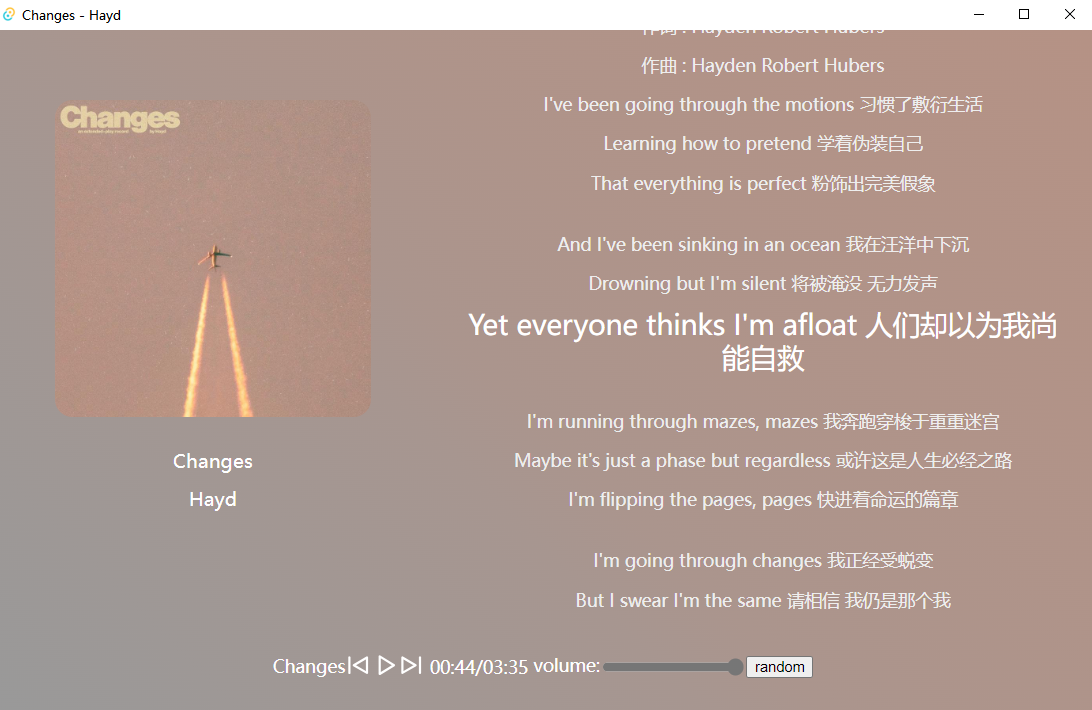
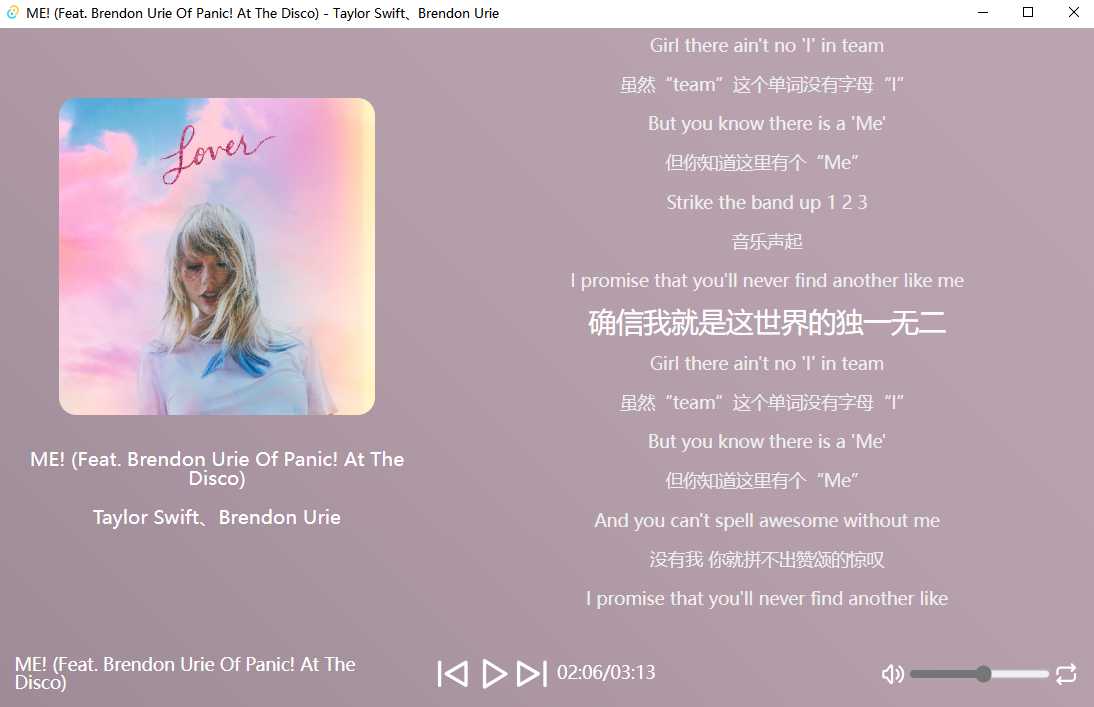
美化播放器外观+v0.6.0

diff --git a/src/Player.jsx b/src/Player.jsx
@@ -1,7 +1,7 @@
 import { useEffect, useRef, useState } from 'react'
 
 import { convertFileSrc } from '@tauri-apps/api/tauri'
-import { appWindow } from '@tauri-apps/api/window'
+import { appWindow,LogicalPosition,LogicalSize,PhysicalPosition,WebviewWindow } from '@tauri-apps/api/window'
 
 import * as dayjs from "dayjs"
 import d from "dayjs/plugin/duration"
@@ -11,10 +11,32 @@ import {
     IconPlayerPause,
     IconPlayerPlay,
     IconPlayerSkipBack,
-    IconPlayerSkipForward
+    IconPlayerSkipForward,
+    IconVolume,
+    IconVolume3,
+    IconRepeat,
+    IconRepeatOnce,
+    IconRepeatOff,
+    IconArrowsShuffle,
 } from '@tabler/icons-react'
 //import { unregister,register } from '@tauri-apps/api/globalShortcut'
 import { replacer } from './utils/storageHelper'
+
+// const w=new WebviewWindow("lyrics",{
+//     url:'/lyrics',
+//     //transparent: true,
+    
+//     x:960,
+//     y:540,
+// })
+// w.setSize(new LogicalSize(500,500))
+
+//w.setDecorations(false)
+//w.setAlwaysOnTop(true)
+
+
+//w.show()
+//w.hide()
 dayjs.extend(d)
 const chance = new Chance();
 const toFormattedDuration = (p) => {
@@ -26,7 +48,8 @@ const toFormattedDuration = (p) => {
     }).format("mm:ss")
     return result
 }
-const DEFAULT_TITLE = "The Echo of Undefined"
+const DEFAULT_TITLE = "The Echo of Echoes"
+const ICON_SIZE=36
 //unregister("space")
 
 export default function Player({ nowPlay, path, fn, fn2, list, setNowPlay, play, setPlay, fullscreen }) {
@@ -73,9 +96,10 @@ export default function Player({ nowPlay, path, fn, fn2, list, setNowPlay, play,
 
     const [currentTime, setCurrentTime] = useState(0);
     const [duration, setDuration] = useState(0);
-    const [mode, setMode] = useState(modes[1])
+    const [mode, setMode] = useState(modes[0])
     const [played, setPlayed] = useState([])
     const [isPlaying, setIsPlaying] = useState(false);
+    const [volume, setVolume] = useState(Number(localStorage.getItem("volume")));
     //const [loop,setLoop]=useState(mode==="loop");
 
     useEffect(() => {
@@ -128,40 +152,44 @@ export default function Player({ nowPlay, path, fn, fn2, list, setNowPlay, play,
                 <p onClick={() => fn(!fullscreen)}>{nowPlay.title ?? DEFAULT_TITLE}</p>
             </div>
 
-            <div className='player-controls'>
+            <div className='player-controls' style={{textAlign:"center"}}>
                 <IconPlayerSkipBack onClick={() => {
                 setNowPlay(list[(nowPlay.get("index") - 1) % list.length])
                 if (!play) setPlay(true)
                 //player.current.play()
-                }} />
+                }} size={ICON_SIZE}/>
                 <span onClick={() => {
                     if (isPlaying) player.current.pause();
                     else player.current.play();
                     setIsPlaying(!isPlaying)
-                }}>{isPlaying ? <IconPlayerPause /> : <IconPlayerPlay />}</span>
+                }}>{isPlaying ? <IconPlayerPause size={ICON_SIZE} /> : <IconPlayerPlay size={ICON_SIZE} />}</span>
                 <IconPlayerSkipForward onClick={() => {
                     //setNowPlay(list[(nowPlay.get("index") + 1) % list.length])
                     if (!play) setPlay(true)
                     next()
 
                     //player.current.play()
-                }} />
-                <span style={{verticalAlign:"text-top"}}>
+                }} size={ICON_SIZE}/>
+                <span style={{verticalAlign:"auto"}}>
                 &nbsp;
                 <span>{currentTime}</span>/
                 <span>{duration}</span>
                     &nbsp;</span>
             </div>
-            <div className="player-volume">
-            volume:<input type="range" min="0" max="1" step="0.01" defaultValue={Number(localStorage.getItem("volume"))} onChange={(e) => {
+            <div className="player-volume" style={{textAlign:"right"}}>
+            {volume==0?<IconVolume3></IconVolume3>:<IconVolume></IconVolume>}<input type="range" min="0" max="1" step="0.01" defaultValue={volume} onChange={(e) => {
                 player.current.volume = e.target.value;
+                setVolume(e.target.value)
                 localStorage.setItem('volume', e.target.value);
             }} style={{ verticalAlign: "middle" }}></input>
-            <button onClick={(e) => {
+            <span onClick={(e) => {
                 let newMode = modes[(modes.indexOf(mode) + 1) % modes.length];
                 setMode(newMode)
                 console.log('new mode', newMode)
-            }}>{mode}</button>
+            }}>{{loop:<IconRepeatOnce/>,
+            list:<IconRepeat />,
+            single:<IconRepeatOff/>,
+            random:<IconArrowsShuffle/>}[mode]}</span>
             </div>
         </div>
     </div>)

diff --git a/src/App.jsx b/src/App.jsx
@@ -1,7 +1,7 @@
 import { useCallback, useEffect, useState, useRef } from "react";
 
 import { convertFileSrc, invoke } from "@tauri-apps/api/tauri";
-import { open } from "@tauri-apps/api/dialog"
+
 import { appWindow, LogicalSize, PhysicalSize } from '@tauri-apps/api/window';
 
 import { Route, Switch, Link } from "wouter";
@@ -66,9 +66,12 @@ function App() {
     return <div className={"lrc " + (active ? "active" : "")}>{content/*.match(/[\w\s"'?!.(),:\-]+/)*/}</div>
     //fake "pure English" mode
   })
-
+  const albumList = [...new Set(
+    JSON.parse(localStorage.getItem('musicList') ?? '[]')
+      .map((item) => item.album)
+  )]
   useHotkeys("F5", e => {
-    if(!isDev)e.preventDefault()
+    if (!isDev) e.preventDefault()
   })
   useEffect(() => {
     if (path && nowPlay.file_name) {
@@ -124,7 +127,7 @@ function App() {
       <div className="column">
         <Link className="icon" href="/user_data"><IconUserSquareRounded size={ICON_SIZE + 12} color="#5a5a5a"></IconUserSquareRounded></Link>
         <Link className="icon albums" href="/albums"><IconVinyl size={ICON_SIZE} color="#5a5a5a"></IconVinyl></Link>
-        <Link className="icon artists" href="/artists"><IconUsers size={ICON_SIZE} color="#5a5a5a"></IconUsers></Link>
+        {/*<Link className="icon artists" href="/artists"><IconUsers size={ICON_SIZE} color="#5a5a5a"></IconUsers></Link>*/}
         <Link className="icon songs" href="/"><IconMusic size={ICON_SIZE} color="#5a5a5a"></IconMusic></Link>
         <Link className="icon settings" href="/settings"><IconSettings size={ICON_SIZE} color="#5a5a5a"></IconSettings></Link>
       </div>
@@ -140,8 +143,8 @@ function App() {
           </Route>
           <Route path="/settings"><Setting /></Route>
           <Route path="/artists"><Artists /></Route>
-          <Route path="/albums"><Albums /></Route>
-          <Route path="/user_data"><UserData lengthOfSongs={list?.length ?? 0} /></Route>
+          <Route path="/albums"><Albums list={albumList} /></Route>
+          <Route path="/user_data"><UserData lengthOfSongs={list?.length ?? 0} lengthOfAlbums={albumList.length} /></Route>
         </Switch>
       </div>
       <div className="footer">
@@ -179,7 +182,13 @@ function App() {
               width: "min(80%,18rem)",
               borderRadius: "1rem",
             }} crossOrigin="anonymous" ref={coverImage} />
-            <div style={{ flex: 1, color: "var(--lrc-active-color)", paddingBlockStart: "0.8rem", fontSize: "1.1rem" }}>
+            <div style={{
+              flex: 1,
+              color: "var(--lrc-active-color)",
+              paddingBlockStart: "0.8rem",
+              fontSize: "1.1rem",
+              marginInline: "1rem"
+            }}>
               <p>{nowPlay.title}</p>
               <p>{nowPlay.artist}</p>
             </div>
@@ -198,6 +207,7 @@ function App() {
         </div>
       </div>
     </div>
+
   );
 }
 

diff --git a/src/views/UserData.jsx b/src/views/UserData.jsx
@@ -1,5 +1,5 @@
 import {useEffect, useState} from 'react'
-export default function({lengthOfSongs}){//TODO:
+export default function({lengthOfSongs,lengthOfAlbums}){//TODO:
     const [userData, setUserData] = useState(/*localStorage.userData??*/{
         name: 'XYZscratcher',
         description: 'A music listener'
@@ -13,7 +13,7 @@ export default function({lengthOfSongs}){//TODO:
                 setUserData({...userData,name:e.target.textContent})
             }}>{userData.name}</h1>
             <p contentEditable>{userData.description}</p>
-            <p>You have {lengthOfSongs} songs.</p>
+            <p>{lengthOfSongs} songs, {lengthOfAlbums} albums.</p>
         </div>
     )
 }

diff --git a/src/views/Albums.jsx b/src/views/Albums.jsx
@@ -1,13 +1,9 @@
-export default function(){
-    const albumList = [...new Set(
-        JSON.parse(localStorage.getItem('musicList'))
-            .map((item) => item.album)
-    )]
+export default function({list}){
     return(
         <>
         <h1>Albums</h1>
-        <p>You have {albumList.length} albums.</p>
-        <ul>{albumList.toSorted().map((v, i) => <li key={i}>{v}</li>)}</ul>
+        {/*<p>You have {albumList.length} albums.</p>*/}
+        <ul>{list.toSorted().map((v, i) => <li key={i}>{v}</li>)}</ul>
         </>
     )
 }

diff --git a/src/core/load.js b/src/core/load.js
@@ -39,9 +39,10 @@ async function loadMusic(path) {
             lst.push(d)
             console.log(d.cover)
         }
+        localStorage.setItem("musicList", JSON.stringify(lst));
     }
     console.log(lst)
-    localStorage.setItem("musicList", JSON.stringify(lst));
+    
     console.log("tongji", tongji)
     return new Promise((resolve, reject) => {
         resolve([metadata, lst])

diff --git a/src/main.jsx b/src/main.jsx
@@ -1,9 +1,13 @@
 import React from "react";
 import ReactDOM from "react-dom/client";
+import { Route, Switch, Link } from "wouter";
 import App from "./App";
 
 ReactDOM.createRoot(document.getElementById("root")).render(
   <React.StrictMode>
-    <App />
+    <Switch>
+      <Route path="/lyrics"><p></p></Route>
+      <Route><App /></Route>
+    </Switch>
   </React.StrictMode>,
 );

diff --git a/src/views/Artists.jsx b/src/views/Artists.jsx
@@ -1,9 +1,7 @@
 import { useState } from "react"
 
 export default function(){
-    //const [a,b]=useState({a:1})
     return (
-        <p>coming soon</p>
-        //<p onClick={() => b({a:a.a+1})}>{a.a}</p>
+        <p>coming soon</p>      
     )
 }

diff --git a/src/views/Songs.jsx b/src/views/Songs.jsx
@@ -1,4 +1,5 @@
 import loadMusic from "../core/load";
+import { open } from "@tauri-apps/api/dialog"
 import { audioDir } from '@tauri-apps/api/path';
 const audioDirPath = await audioDir();
 import { useEffect } from "react";

diff --git a/src/App.css b/src/App.css
@@ -148,6 +148,12 @@ tr:hover {}
   font-size: calc(1.5rem + 0.1vw);
   line-height: 1.2;
 }
+.tabler-icon {
+  vertical-align: middle;
+}
+.player-main>* {
+  flex: 1;
+}
 /* .player-main>*{
   flex:1;
 } */

diff --git a/src-tauri/src/main.rs b/src-tauri/src/main.rs
@@ -6,9 +6,9 @@ use tauri::api::path::data_dir;
 use lofty::prelude::*;
 use lofty::probe::Probe;
 //use lofty::picture::Picture;
-use base64::prelude::*;
-use base64::{engine::general_purpose::URL_SAFE, Engine as _};
-use chrono::prelude::*;
+// use base64::prelude::*;
+// use base64::{engine::general_purpose::URL_SAFE, Engine as _};
+// use chrono::prelude::*;
 use lofty::picture::MimeType;
 
 use std::collections::HashMap;
